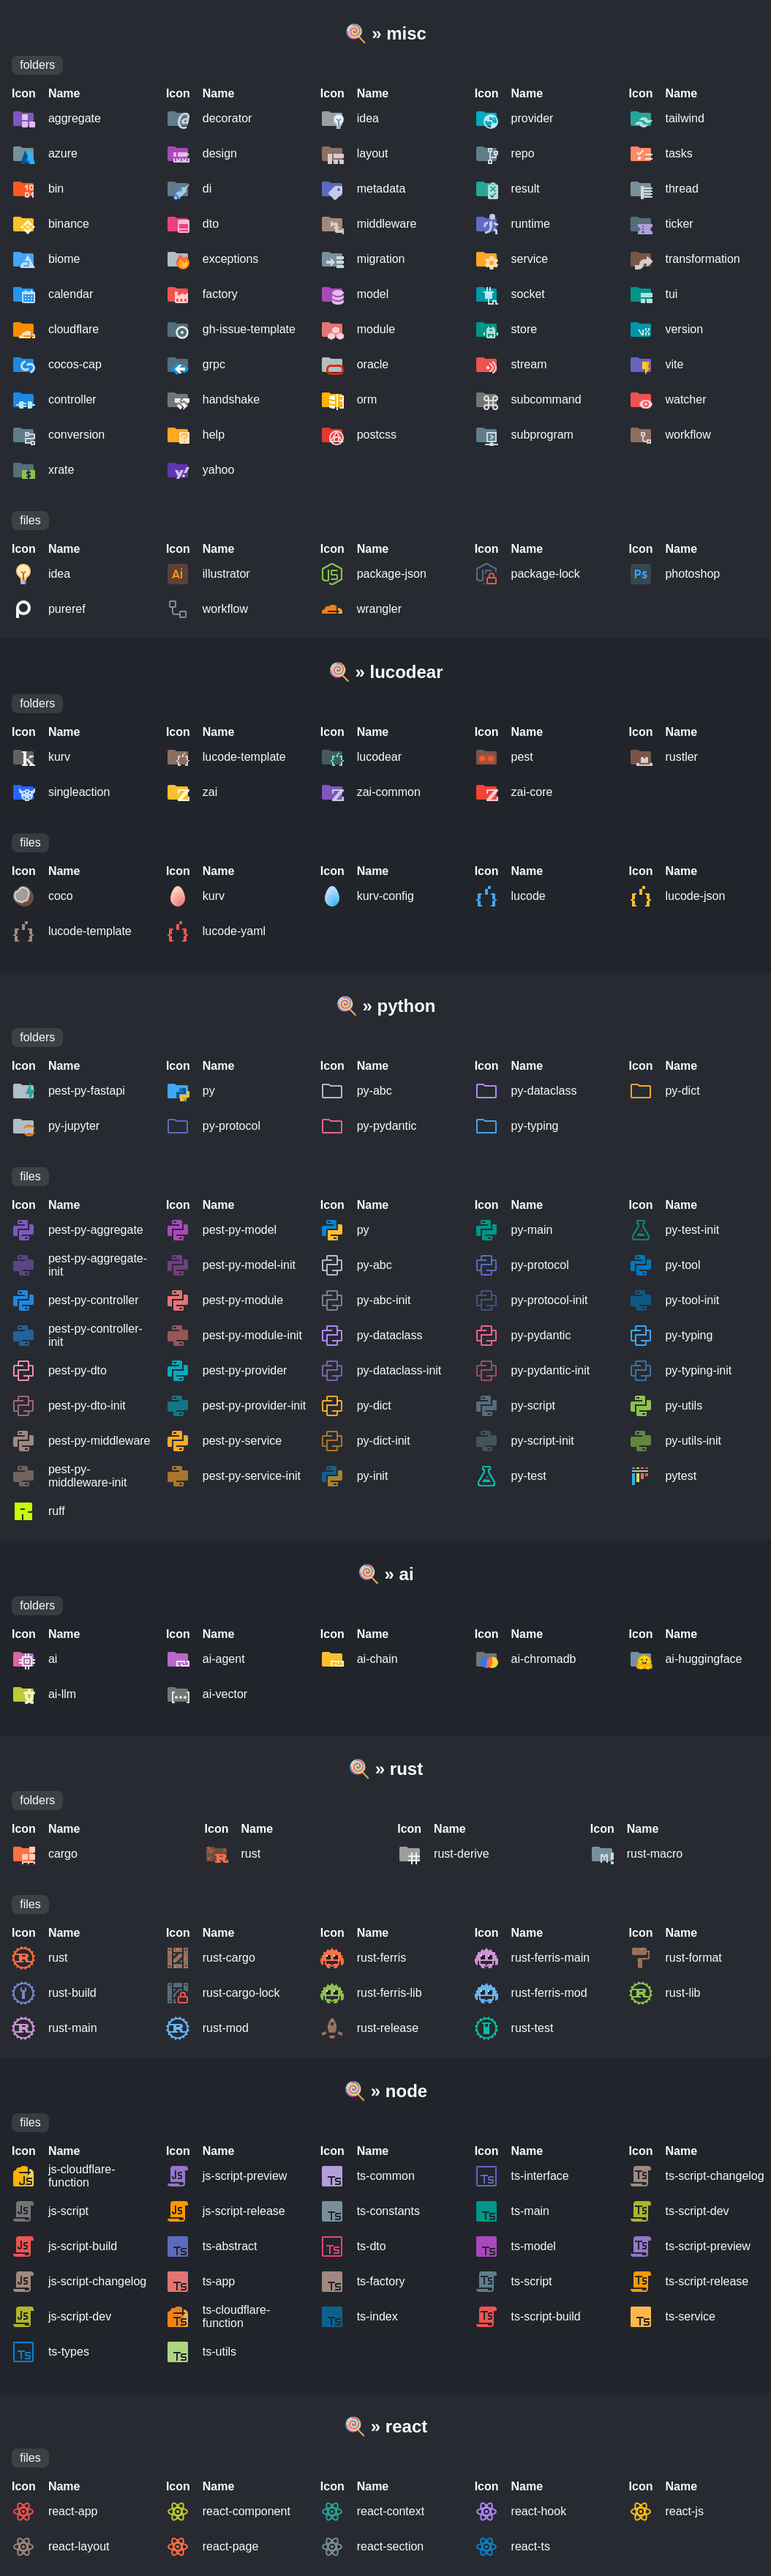
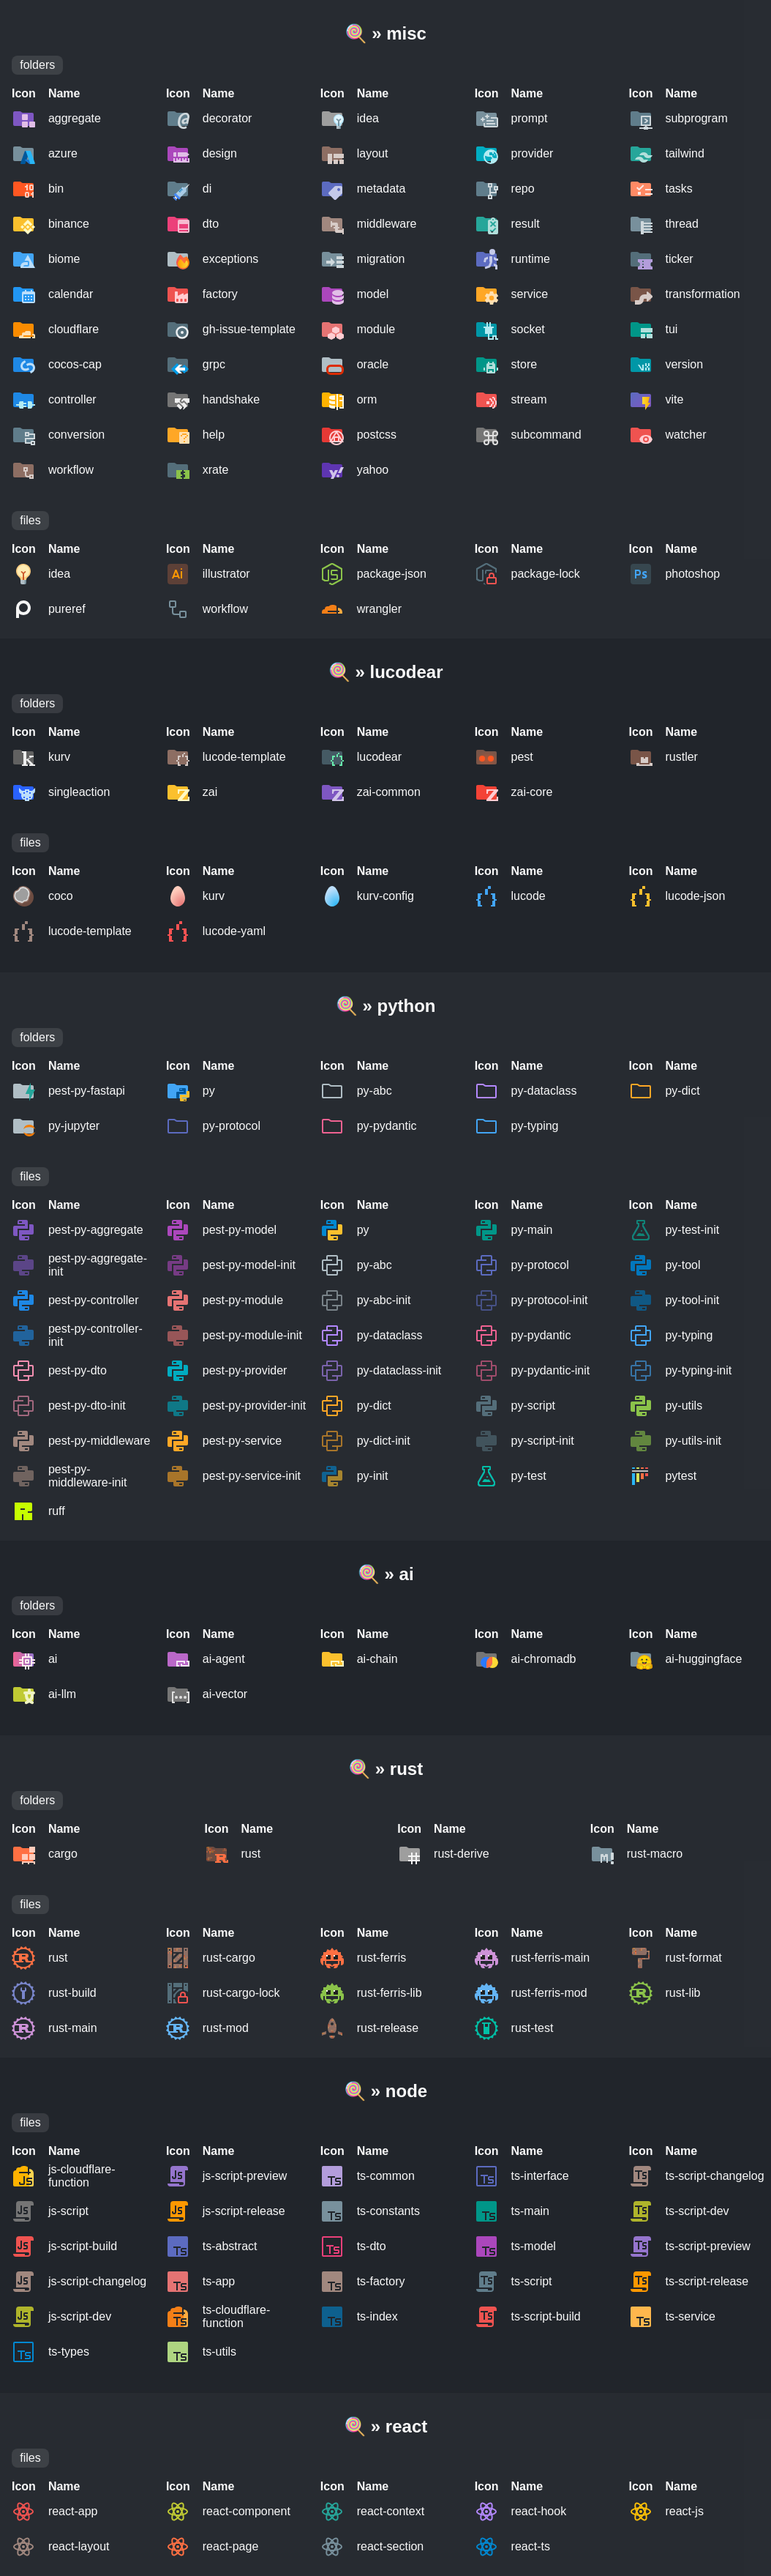
release: 🔖 v1.6.1

diff --git a/CHANGELOG.md b/CHANGELOG.md
@@ -3,10 +3,18 @@
  All notable changes to this project will be documented in this file. Dates are displayed in UTC.
 
  
+#### [v1.6.1](https://github.com/lucodear/lucodear-icons/compare/v1.6.0...v1.6.1) 
+
+> August 27, 2024 
+
+- fix: 🚑 prompt folder icon config [`e1291861`](https://github.com/lucodear/lucodear-icons/commit/e1291861)
+- feat: ✨ prompts folder [`41896007`](https://github.com/lucodear/lucodear-icons/commit/41896007)
+ 
 #### [v1.6.0](https://github.com/lucodear/lucodear-icons/compare/v1.5.3...v1.6.0) 
 
 > August 27, 2024 
 
+- release: 🔖 v1.6.0 [`e9f8be57`](https://github.com/lucodear/lucodear-icons/commit/e9f8be57)
 - feat: ✨ Z icons [`f3008fae`](https://github.com/lucodear/lucodear-icons/commit/f3008fae)
 - build(deps): bump actions/attest-build-provenance [`#2554`](https://github.com/lucodear/lucodear-icons/pull/2554)
 - Update marketplace message capitalization [`#2553`](https://github.com/lucodear/lucodear-icons/pull/2553)
